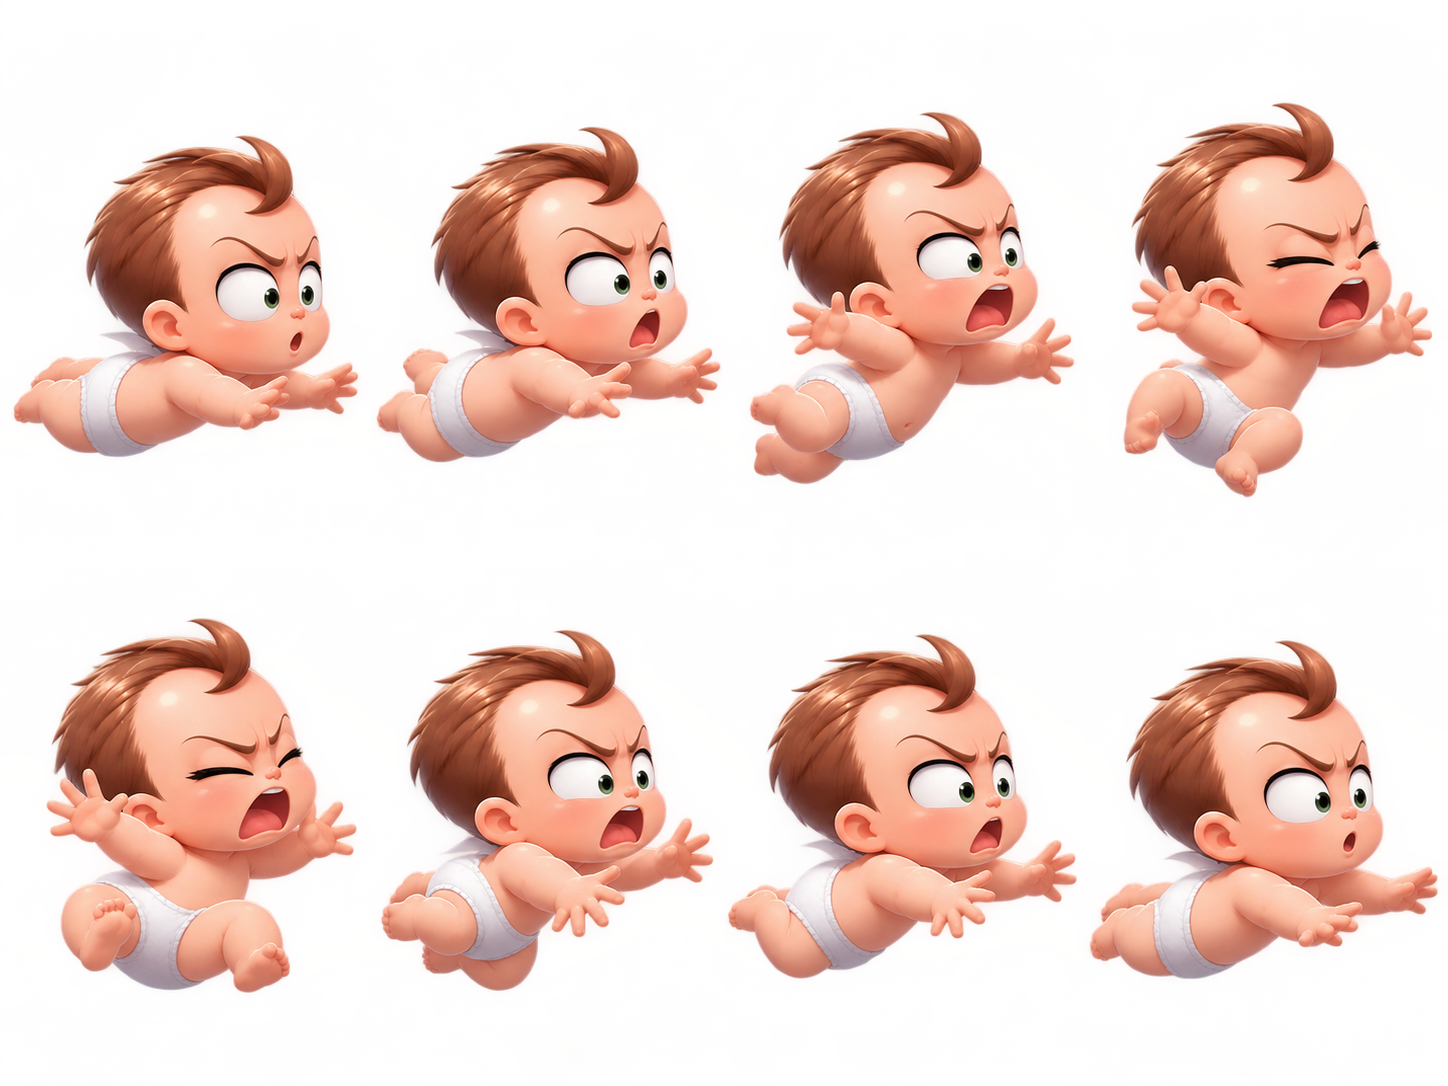
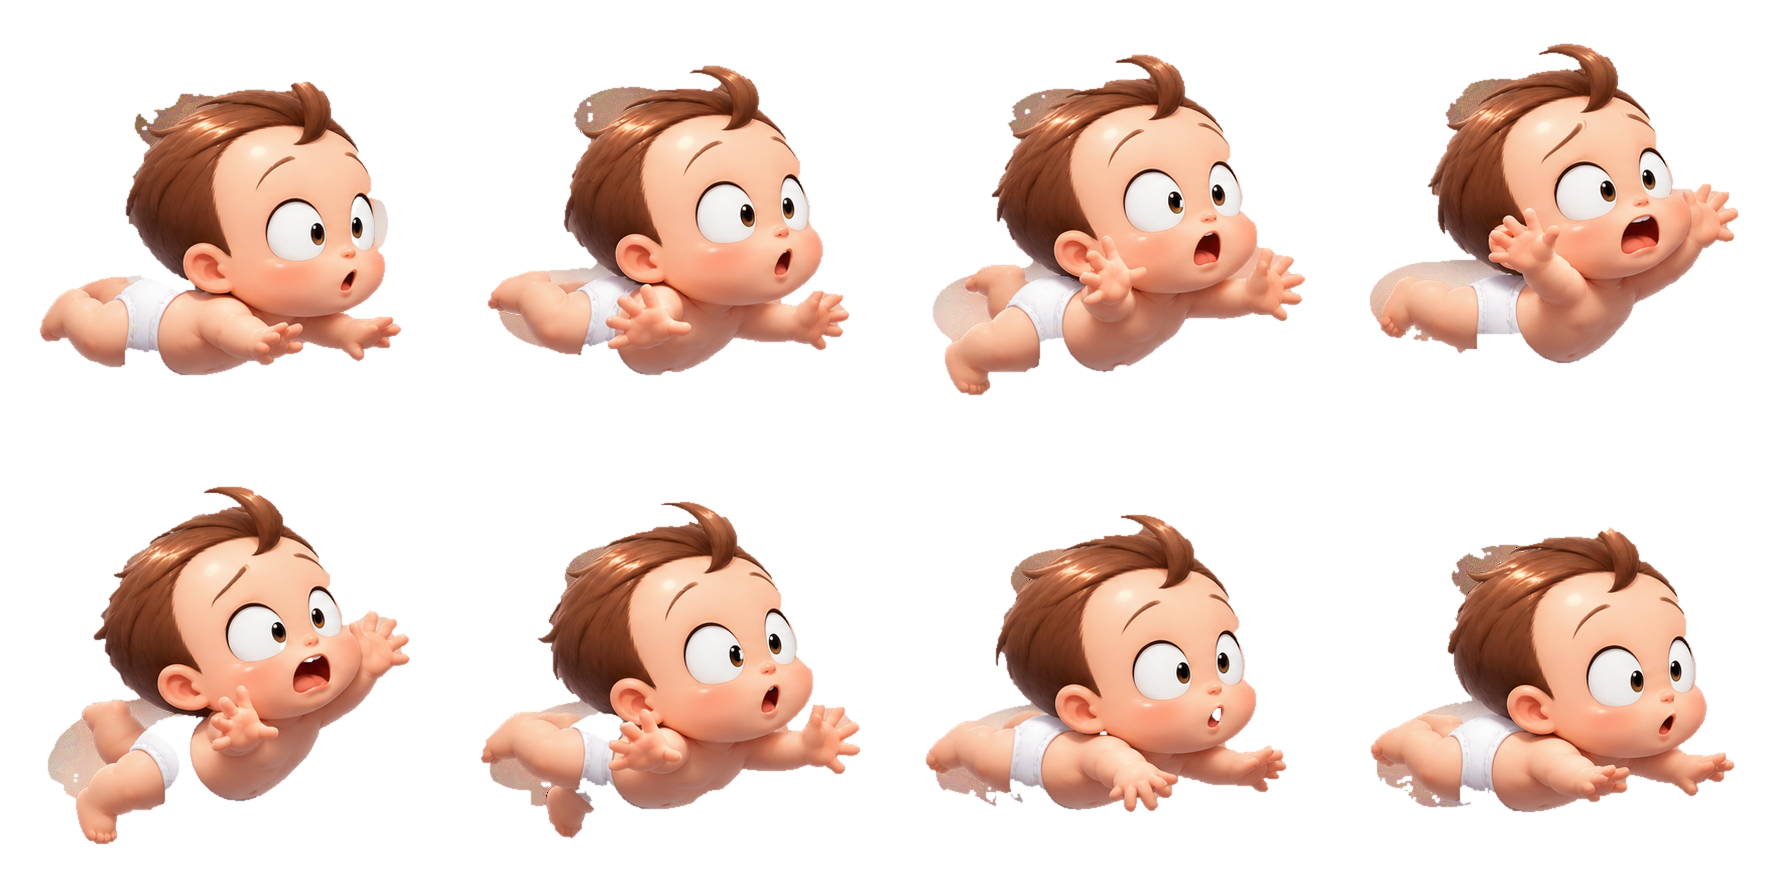
Replace hooked baby animation with approved mild-surprise 8-frame transparent sprite

diff --git a/human-fishing/human-sprites.js b/human-fishing/human-sprites.js
@@ -14,20 +14,21 @@ if(enabled){
  Object.keys(paths).forEach(function(state){
   var img=new Image(); // Tracked by boot.js: decode all assets before gameplay.
   img.decoding='async';
-  img.src='./assets/humans/'+paths[state]+'?v='+version;
+  img.src='./assets/humans/'+paths[state]+'?v='+(state==='hooked'?'20261110-hooked-v2':version);
   images[state]=img;
  });
 }
 function render(ctx,actor,now,action){
  if(!enabled||!actor)return false;
  var mood=paths[action]?action:'swim',img=images[mood];
- if(!img||!img.complete||!img.naturalWidth||img.naturalWidth!==1448||img.naturalHeight!==1086)return false;
+ var sheet=mood==='hooked'?{w:1776,h:888,fw:444,fh:444}:{w:1448,h:1086,fw:362,fh:543};
+ if(!img||!img.complete||img.naturalWidth!==sheet.w||img.naturalHeight!==sheet.h)return false;
  var fps=mood==='resist'?13:mood==='hooked'?12:mood==='taunt'?11:8;
  var phase=Number.isFinite(actor.phase)?actor.phase:0;
  var frame=(Math.floor(Math.max(0,now||0)*fps+phase*1.5)%8+8)%8;
- var col=frame%4,row=Math.floor(frame/4),fw=362,fh=543;
+ var col=frame%4,row=Math.floor(frame/4),fw=sheet.fw,fh=sheet.fh;
  var size=Math.max(.7,Math.min(1.8,Number(actor.size)||1));
- var scale=.36*size*(actor.id>=20?1.05:1);
+ var scale=(mood==='hooked'?.33:.36)*size*(actor.id>=20?1.05:1);
  var facing=Number(actor.vx||actor.dir||1)<0?-1:1;
  ctx.save();
  ctx.translate(Number(actor.x)||0,Number(actor.y)||0);

diff --git a/human-fishing/index.html b/human-fishing/index.html
@@ -431,7 +431,7 @@ font:800 11px/1.2 system-ui,sans-serif;letter-spacing:.4px}
 <script src="./fish-expansion-catalog-012.js?v=20261109-user-six"></script>
 <script src="./assets/octopus/octopus-sidekicks.js?v=9-clean-sprite-frames"></script>
 <script src="./assets/humans/ready.js?v=20261110-baby-v1"></script>
-<script src="./human-sprites.js?v=20261110-baby-v1"></script>
+<script src="./human-sprites.js?v=20261110-baby-v2-hooked"></script>
 <script src="./foley.js?v=20261108-chest-prize-bells-v1"></script>
 <script src="./ambient.js?v=20261108-deep-dual-ambience-v2"></script>
 <script>
